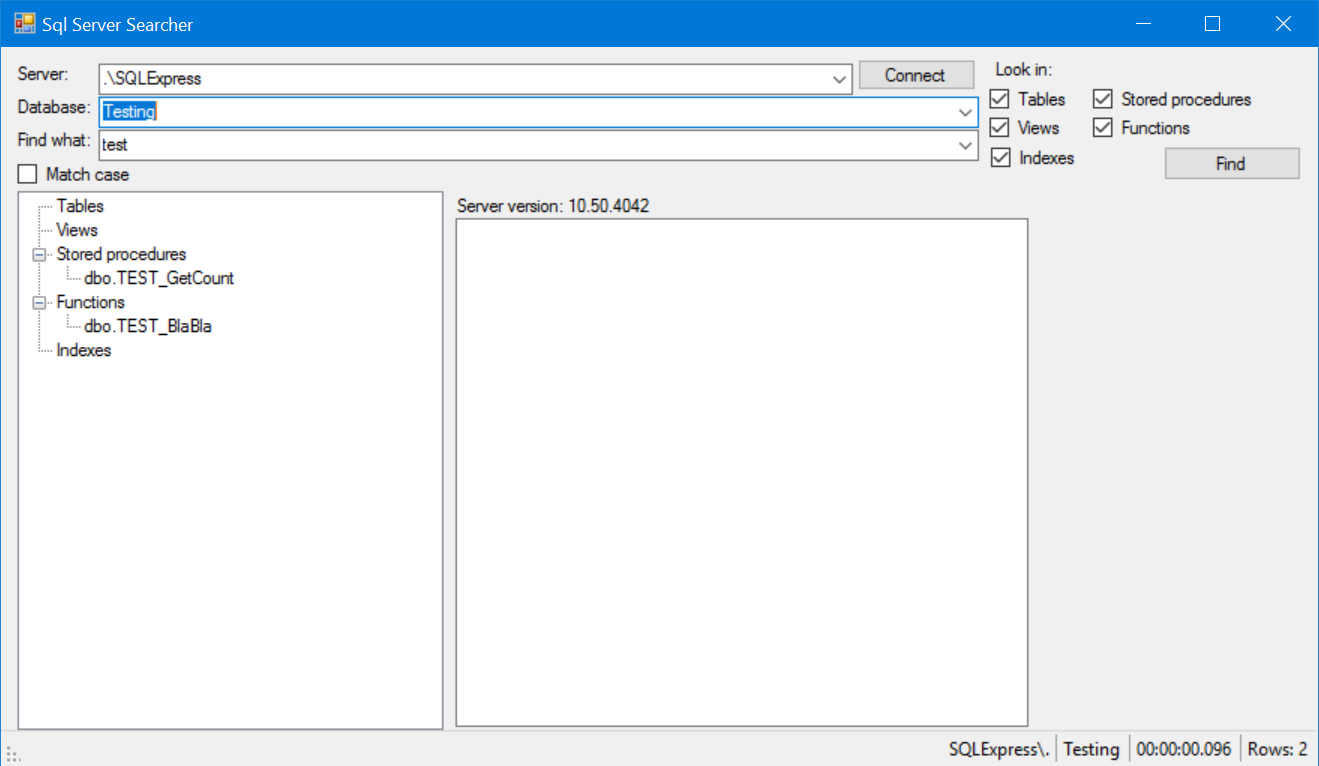
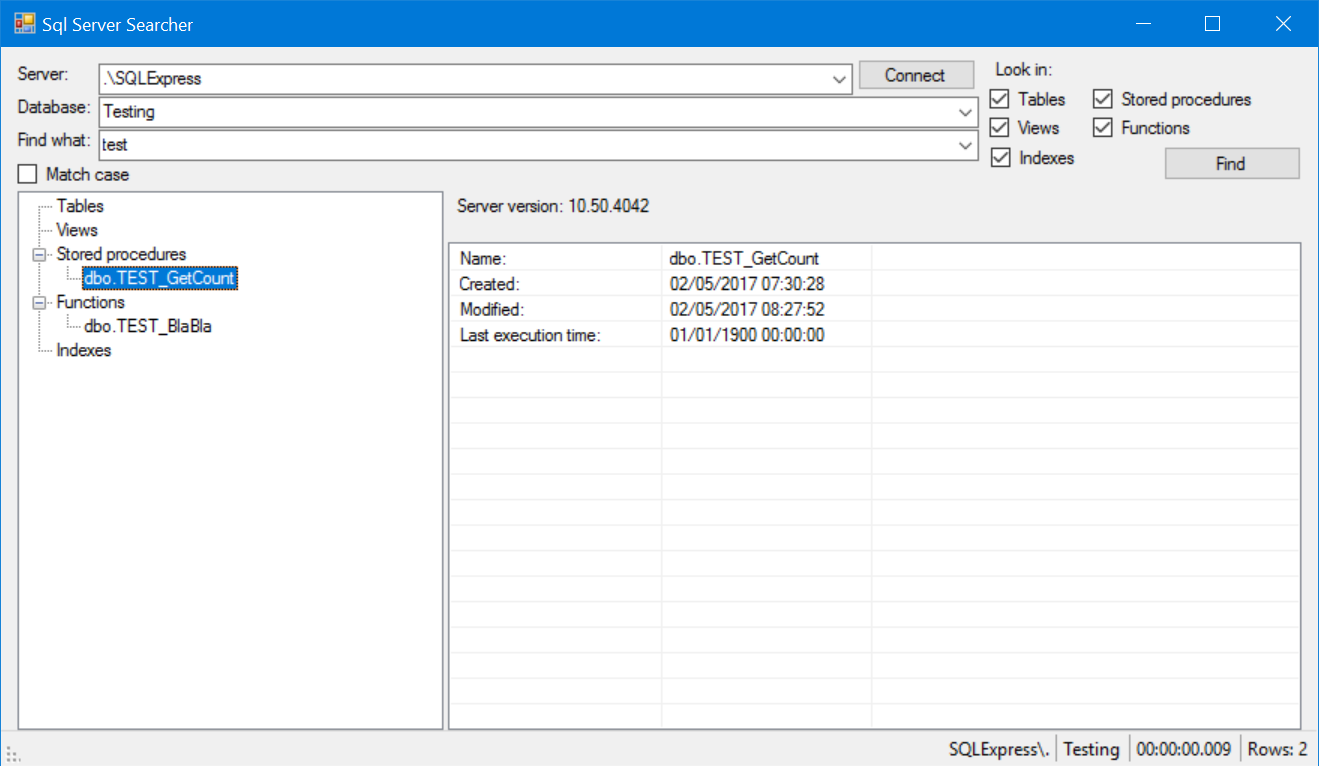
Updated scrrenshot and README.md.

diff --git a/README.md b/README.md
@@ -22,7 +22,8 @@ Task list
 
 - [ ] Make it possible to use more than one search term
 - [ ] Implement the 'Match case' checkbox functionality
-- [ ] Display metadata about the found element when clicking the TreeView node
+- [x] Display metadata about the found element when clicking the TreeView node
+- [ ] Display metadata about the connected server
 - [ ] When matches are found in the definition of stored procedures and functions, then highlight the matches
 
 Icons
